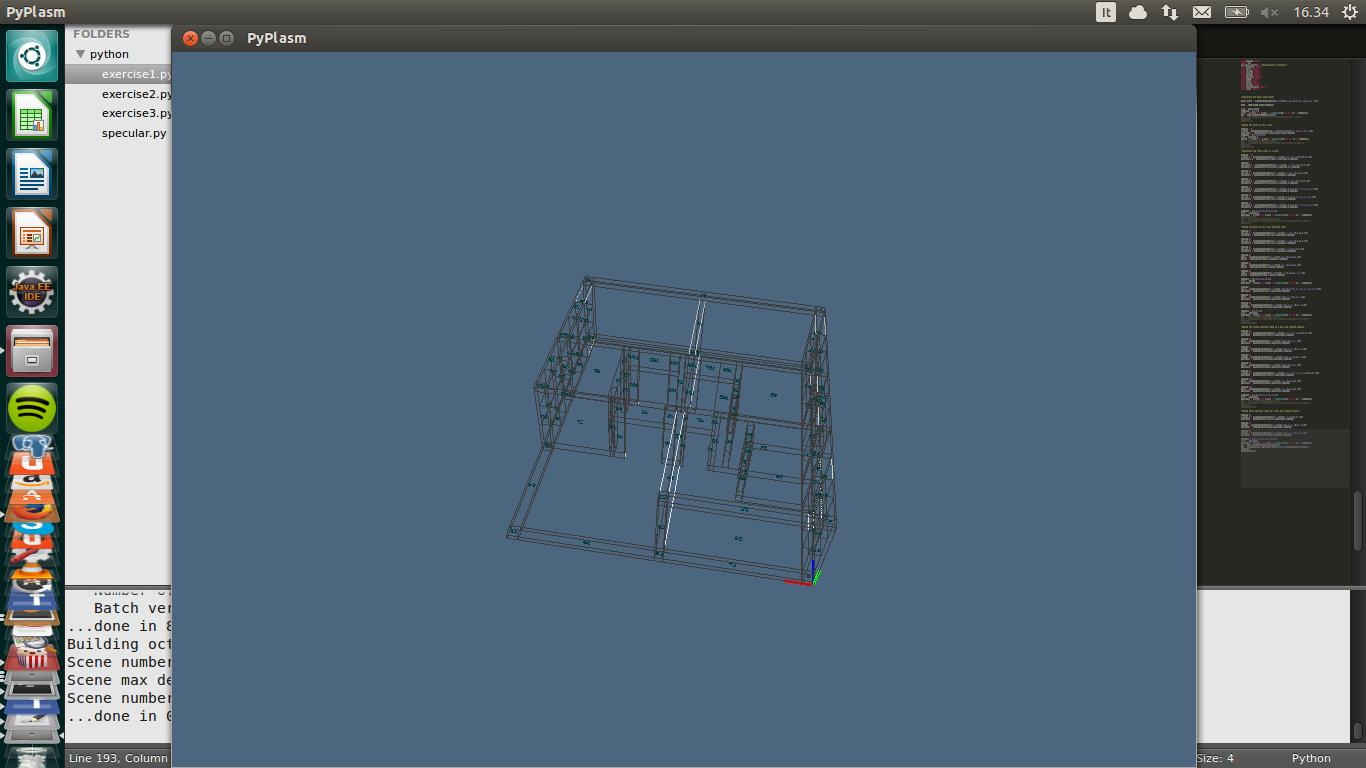
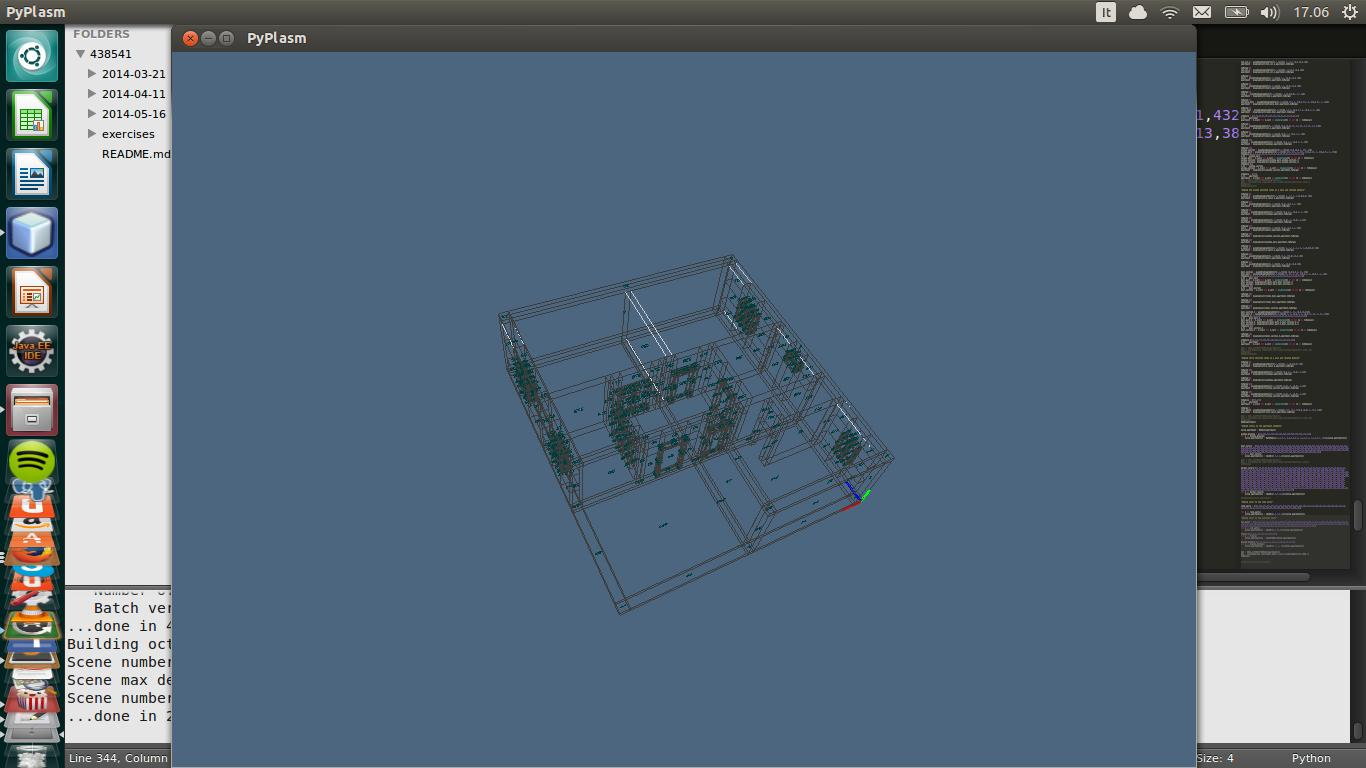
HW3 last commit

diff --git a/2014-05-16/index.html b/2014-05-16/index.html
@@ -14,8 +14,8 @@
 <a href="/python/exercise2.py">Link esercizio 2 </a>
 <a href="/python/exercise3.py">Link esercizio 3 </a>
 <p>Descrizione Lavoro:</p>
-<p>punto 1: Si è proceduto alla progressiva decomposizione di un blocco di partenza rappresentante l'area limite dell'appartamento (includendo l'area immediatamente esterna), si è proceduto dapprima ad una scomposizione dell'interno per suddivisione sull'asse x, seguito da progressive divisioni sull'asse y, con raffinazioni delle stanze pienamente generate ad ogni passaggio</p> 
-<p>punto 2: Si è creata una struttura formata da due file speculari di appartamenti suddivisi su 5 piani e collegati da una scala, i piani di intermezzo hanno una facciata e parte del piano formato da una struttura creata con curve e superfici di Bezier recuperate dalla decomposizione dei vertici di un blocco diagramma, sono state applicate delle correzioni per ottenere piena copertura dell'edificio</p>
+<p>punto 1: Si è proceduto alla progressiva decomposizione di un blocco di partenza rappresentante l'area limite dell'appartamento (includendo l'area immediatamente esterna), si è proceduto dapprima ad una scomposizione dell'interno per suddivisione sull'asse x, seguito da progressive divisioni sull'asse y, con raffinazioni delle stanze pienamente generate ad ogni passaggio, per ogni stanza sono stati dettagliate porte e finestre. E' stata applicata colorazione a muri interni,esterni e pavimento </p> 
+<p>punto 2: Si è creata una struttura formata da due file speculari di appartamenti suddivisi su 5 piani e collegati da una scala, i piani di intermezzo hanno una facciata e parte del piano formato da una struttura creata con curve e superfici di Bezier recuperate dalla decomposizione dei vertici di un blocco diagramma, sono state applicate delle correzioni per ottenere piena copertura dell'edificio, la facciata di copertura è stata colorata allo stesso modo della muratura esterna degli appartamenti</p>
 <p>punto 3: Sono stati automatizzati i metodi di merge su una lista di celle, rimozione di una lista di celle e creazione dello scheletro con relativa numerazione</p>
 
 
